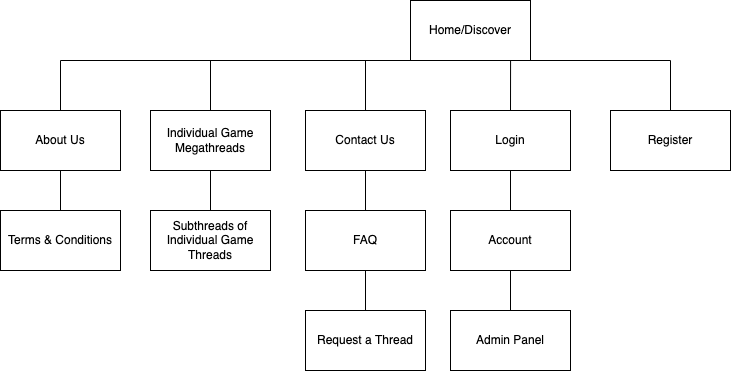
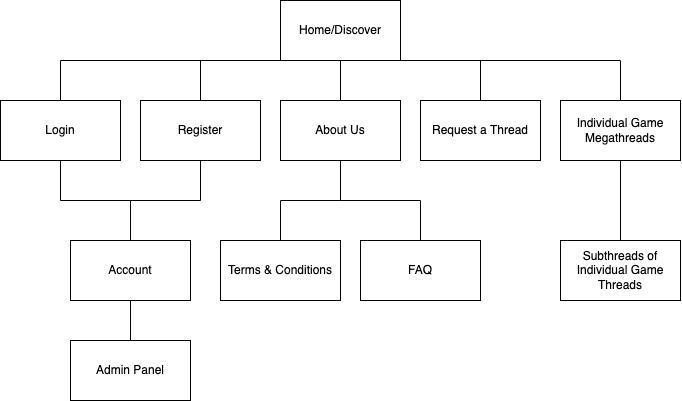
Update site map based on feedbacks received from sprint 0 demo

diff --git a/UX-DESIGN.md b/UX-DESIGN.md
@@ -3,7 +3,7 @@
 ## Prototype
 [Link To View Our Hosted Version Live on Invision](https://invis.io/NY12EDJ29X54)
 
-## App Map
+## Site Map
 ![siteMap](ux-design/siteMap.png)
 
 ## Wireframes
